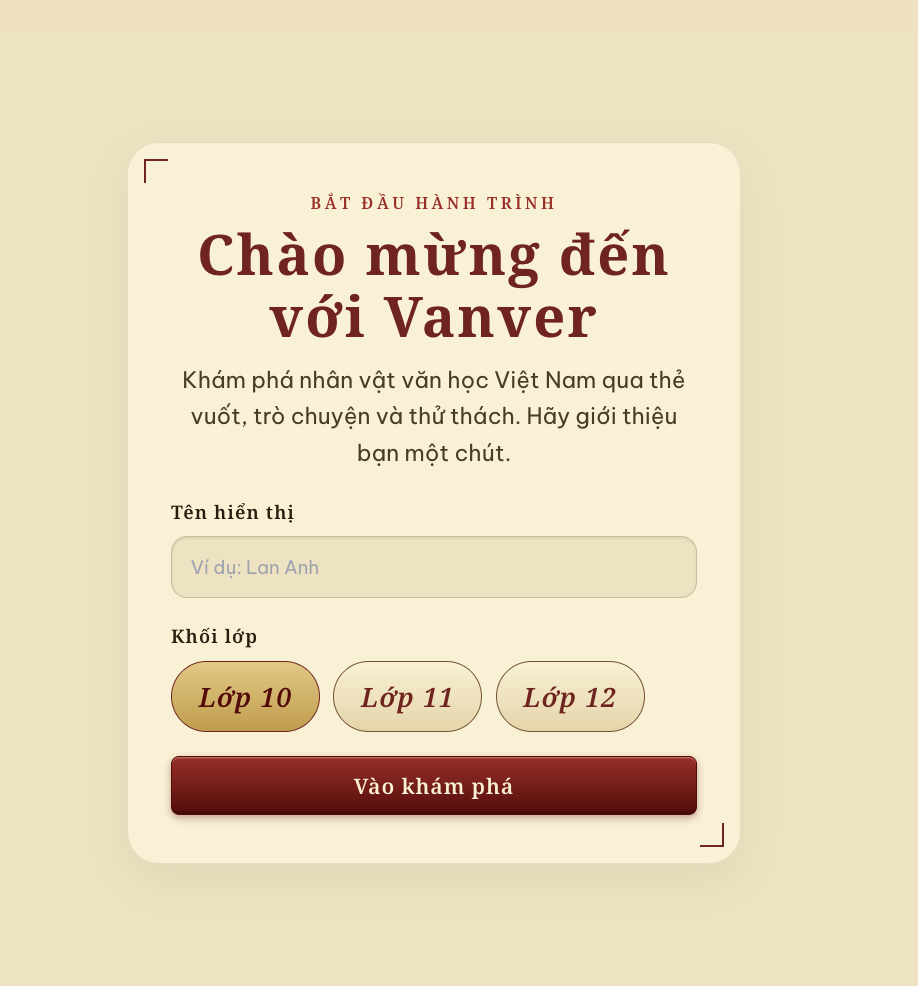
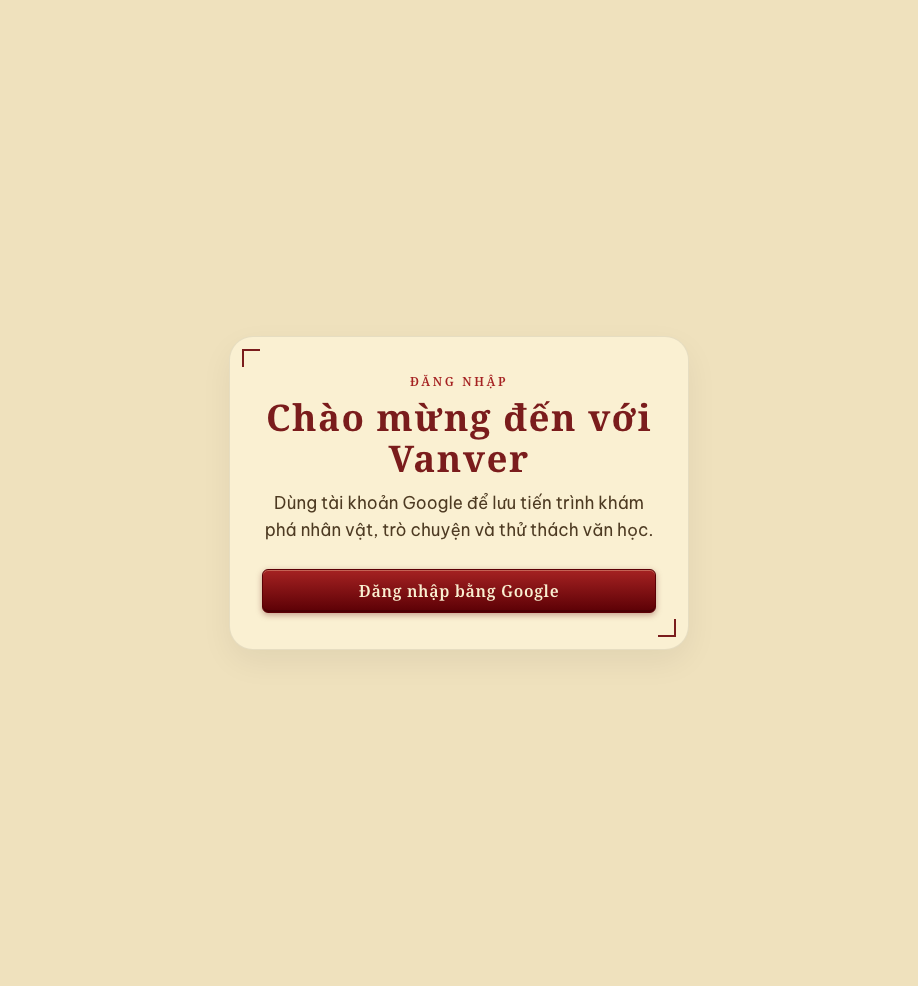
Update README onboarding screenshot

diff --git a/README-en.md b/README-en.md
@@ -31,7 +31,7 @@ Chí Phèo, Mị, Xuân Tóc Đỏ, Lục Vân Tiên, Thúy Kiều, Lão Hạc, 
 
 ### 1 · Onboarding
 
-Start simple: choose your display name then step into the story.
+Start simple: sign in with Google, then step into the story.
 
 No heavy setup. No intimidating dashboard. Just you, your literature journey, and a cast of characters who are much more interesting than their exam summaries make them seem.
 

diff --git a/README.md b/README.md
@@ -33,7 +33,7 @@ Chí Phèo, Mị, Xuân Tóc Đỏ, Lục Vân Tiên, Thúy Kiều, Lão Hạc, 
 ## Trải nghiệm
 
 ### 1 · Bắt đầu
-Chọn tên hiển thị rồi bước vào hành trình học văn.
+Đăng nhập bằng Google rồi bước vào hành trình học văn.
 
 ![Màn hình bắt đầu](docs/screenshots/01-onboarding.png)
 